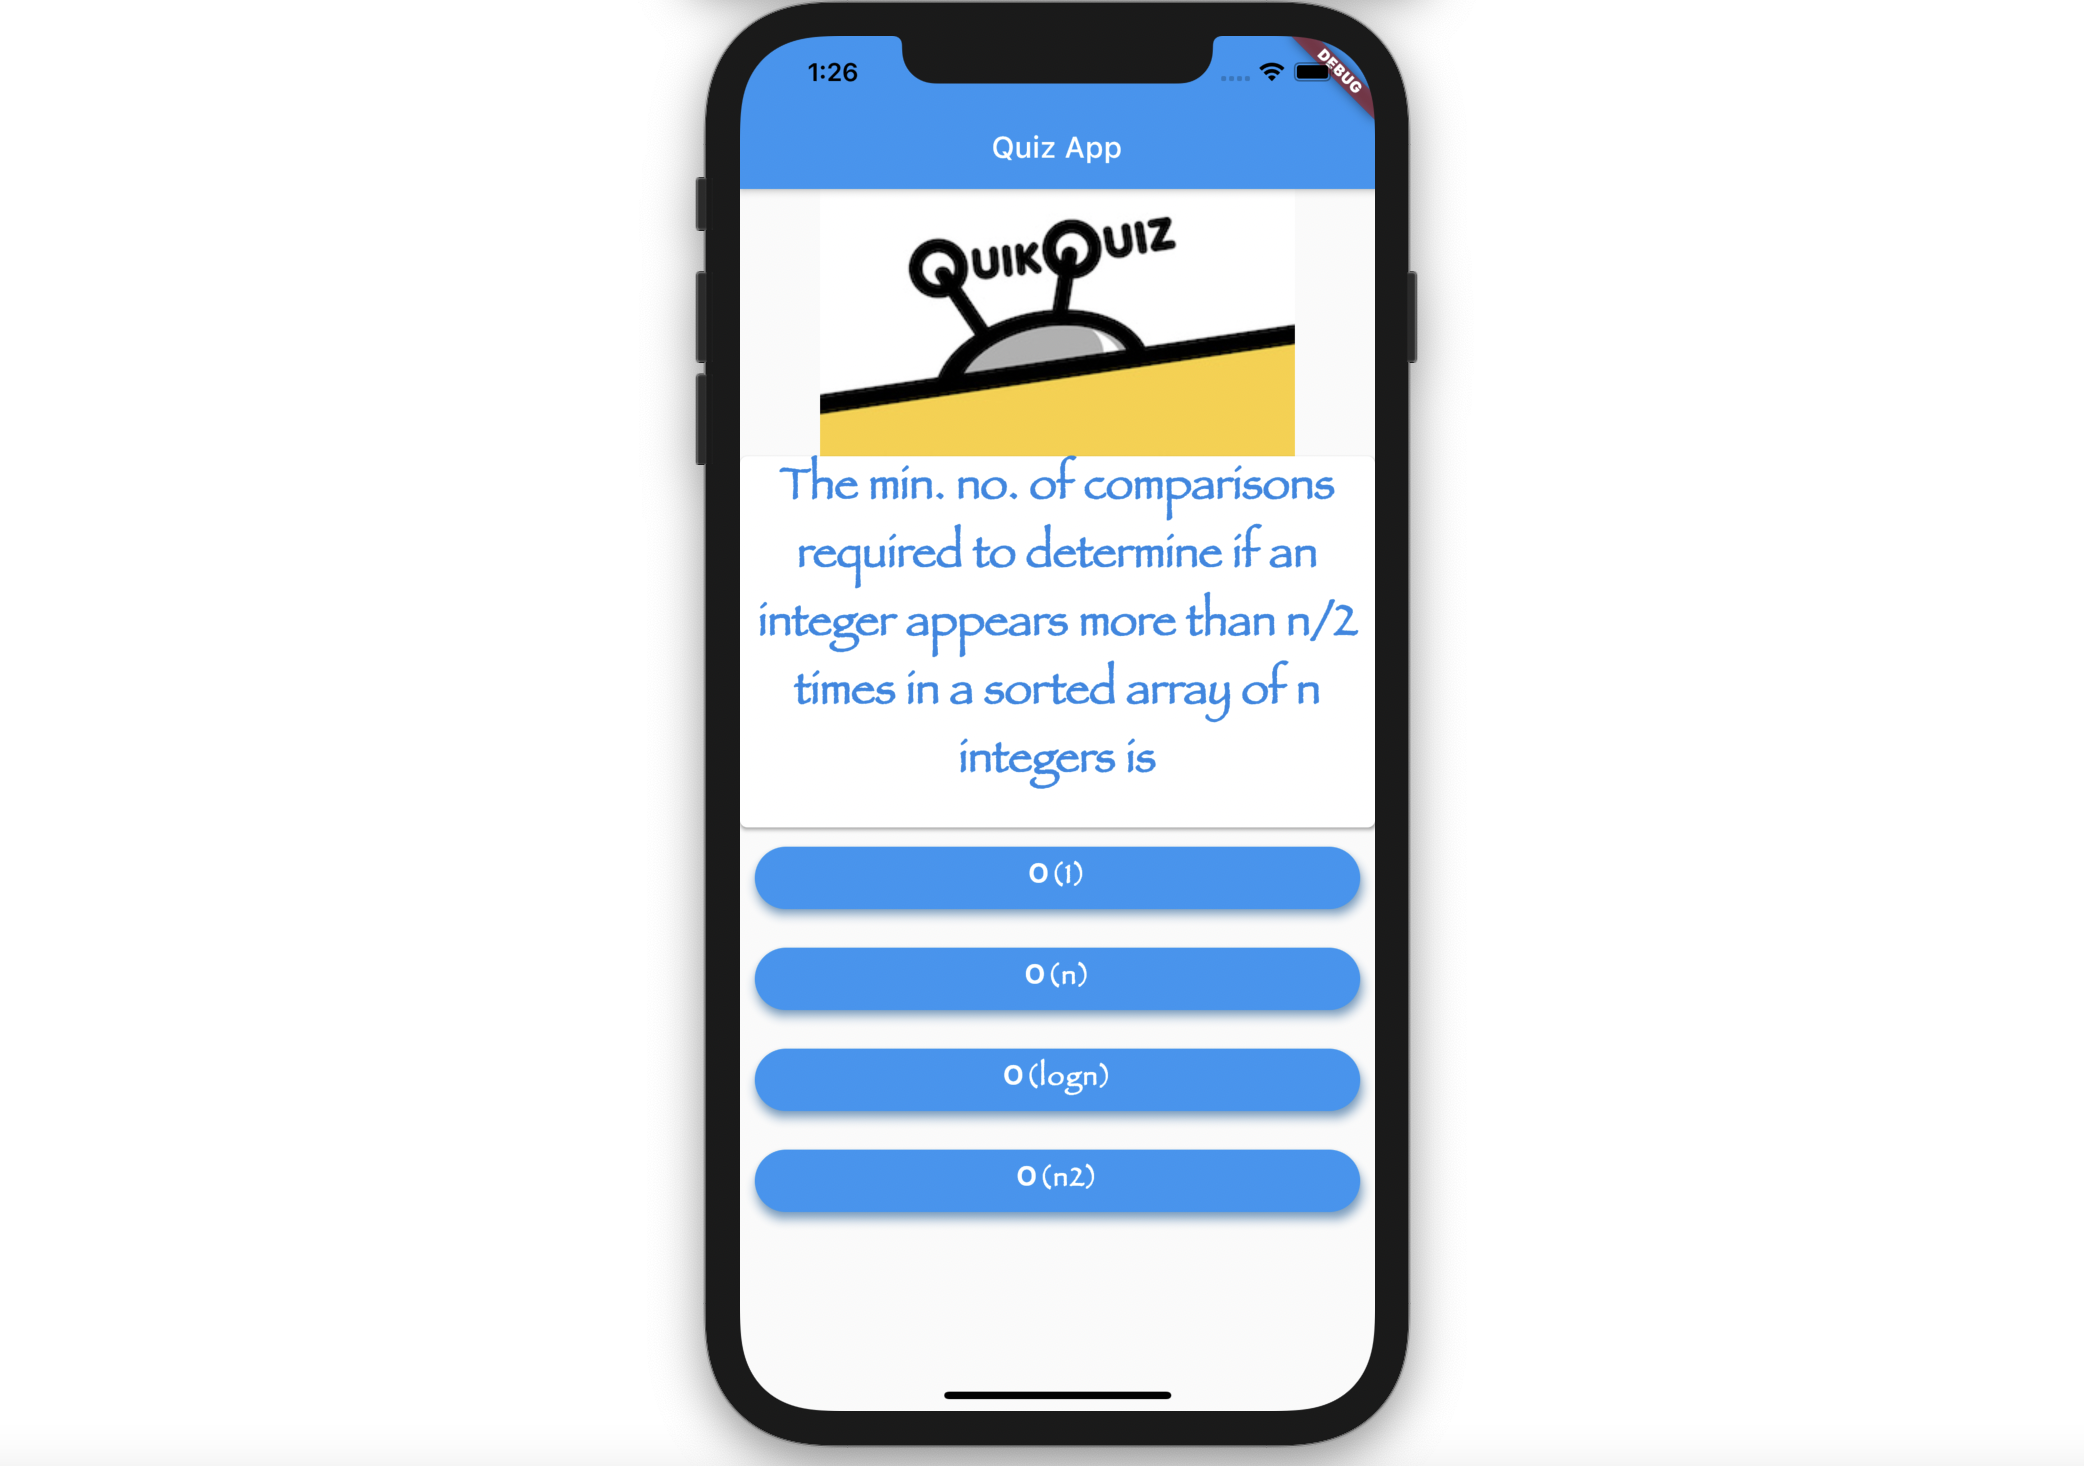
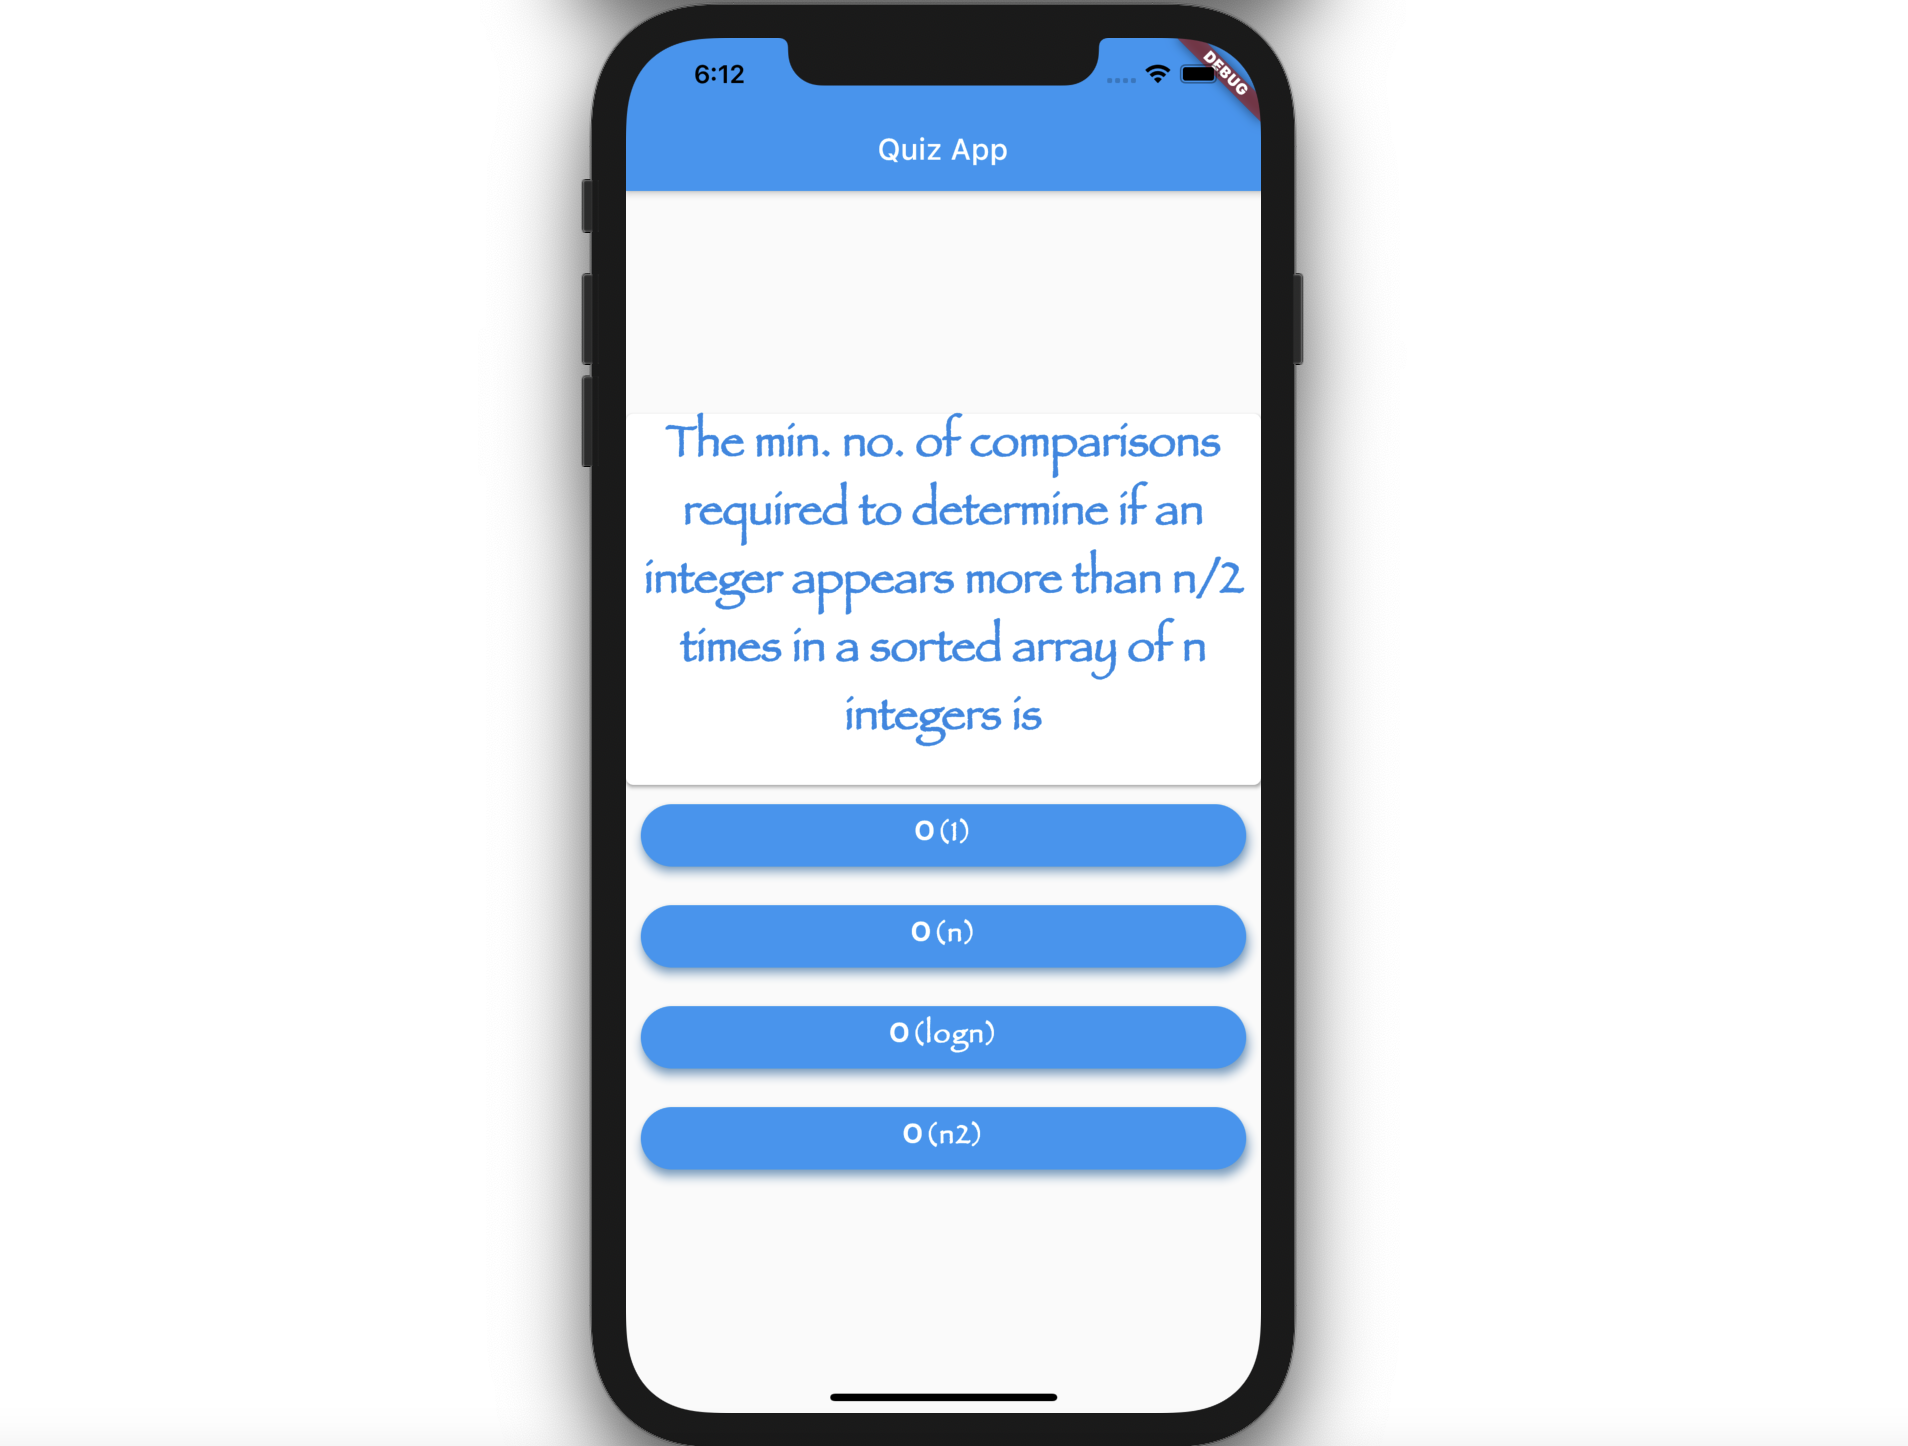
Image removed

Changed region(s): [[0.2783, 0.0, 0.7112, 1.0]]

diff --git a/lib/result.dart b/lib/result.dart
@@ -29,15 +29,15 @@ class Result extends StatelessWidget {
           resultPhrase,
           style: TextStyle(
               color: Colors.blue,
-              fontSize: 30,
-              fontWeight: FontWeight.bold,
+              fontSize: 35,
+              fontWeight: FontWeight.normal,
               fontFamily: "Times New Roman"),
           textAlign: TextAlign.center,
         ),
         Text(
-          "Correct Answers are:\nΟ(logn)\nint arr[20]\nMerge Sort\nAll of the above\nΟ(n2)\nStack\nBinary Search\nResource allocation\nBoth A and B\nLinear search\n\n",
+          "Correct Answers are:\nΟ(logn)\nint arr[20];\nMerge Sort\nAll of the above\nΟ(n)\nStack\nBinary Search\nResource allocation\nBoth A and B\nLinear search\n\n",
           style: TextStyle(
-              color: Colors.greenAccent[400],
+              color: Colors.blueAccent[400],
               fontSize: 20,
               fontWeight: FontWeight.normal,
               fontFamily: "papyrus"),

diff --git a/lib/question.dart b/lib/question.dart
@@ -8,7 +8,10 @@ class Question extends StatelessWidget {
   @override
   Widget build(BuildContext context) {
     return Column(children: <Widget>[
-      Image(image: AssetImage("assets/image.jpeg")),
+      // Image(image: AssetImage("assets/image.jpeg")),
+      Container(
+        height: 150,
+      ),
       ElevatedButton(
           onPressed: () {},
           style: ElevatedButton.styleFrom(
